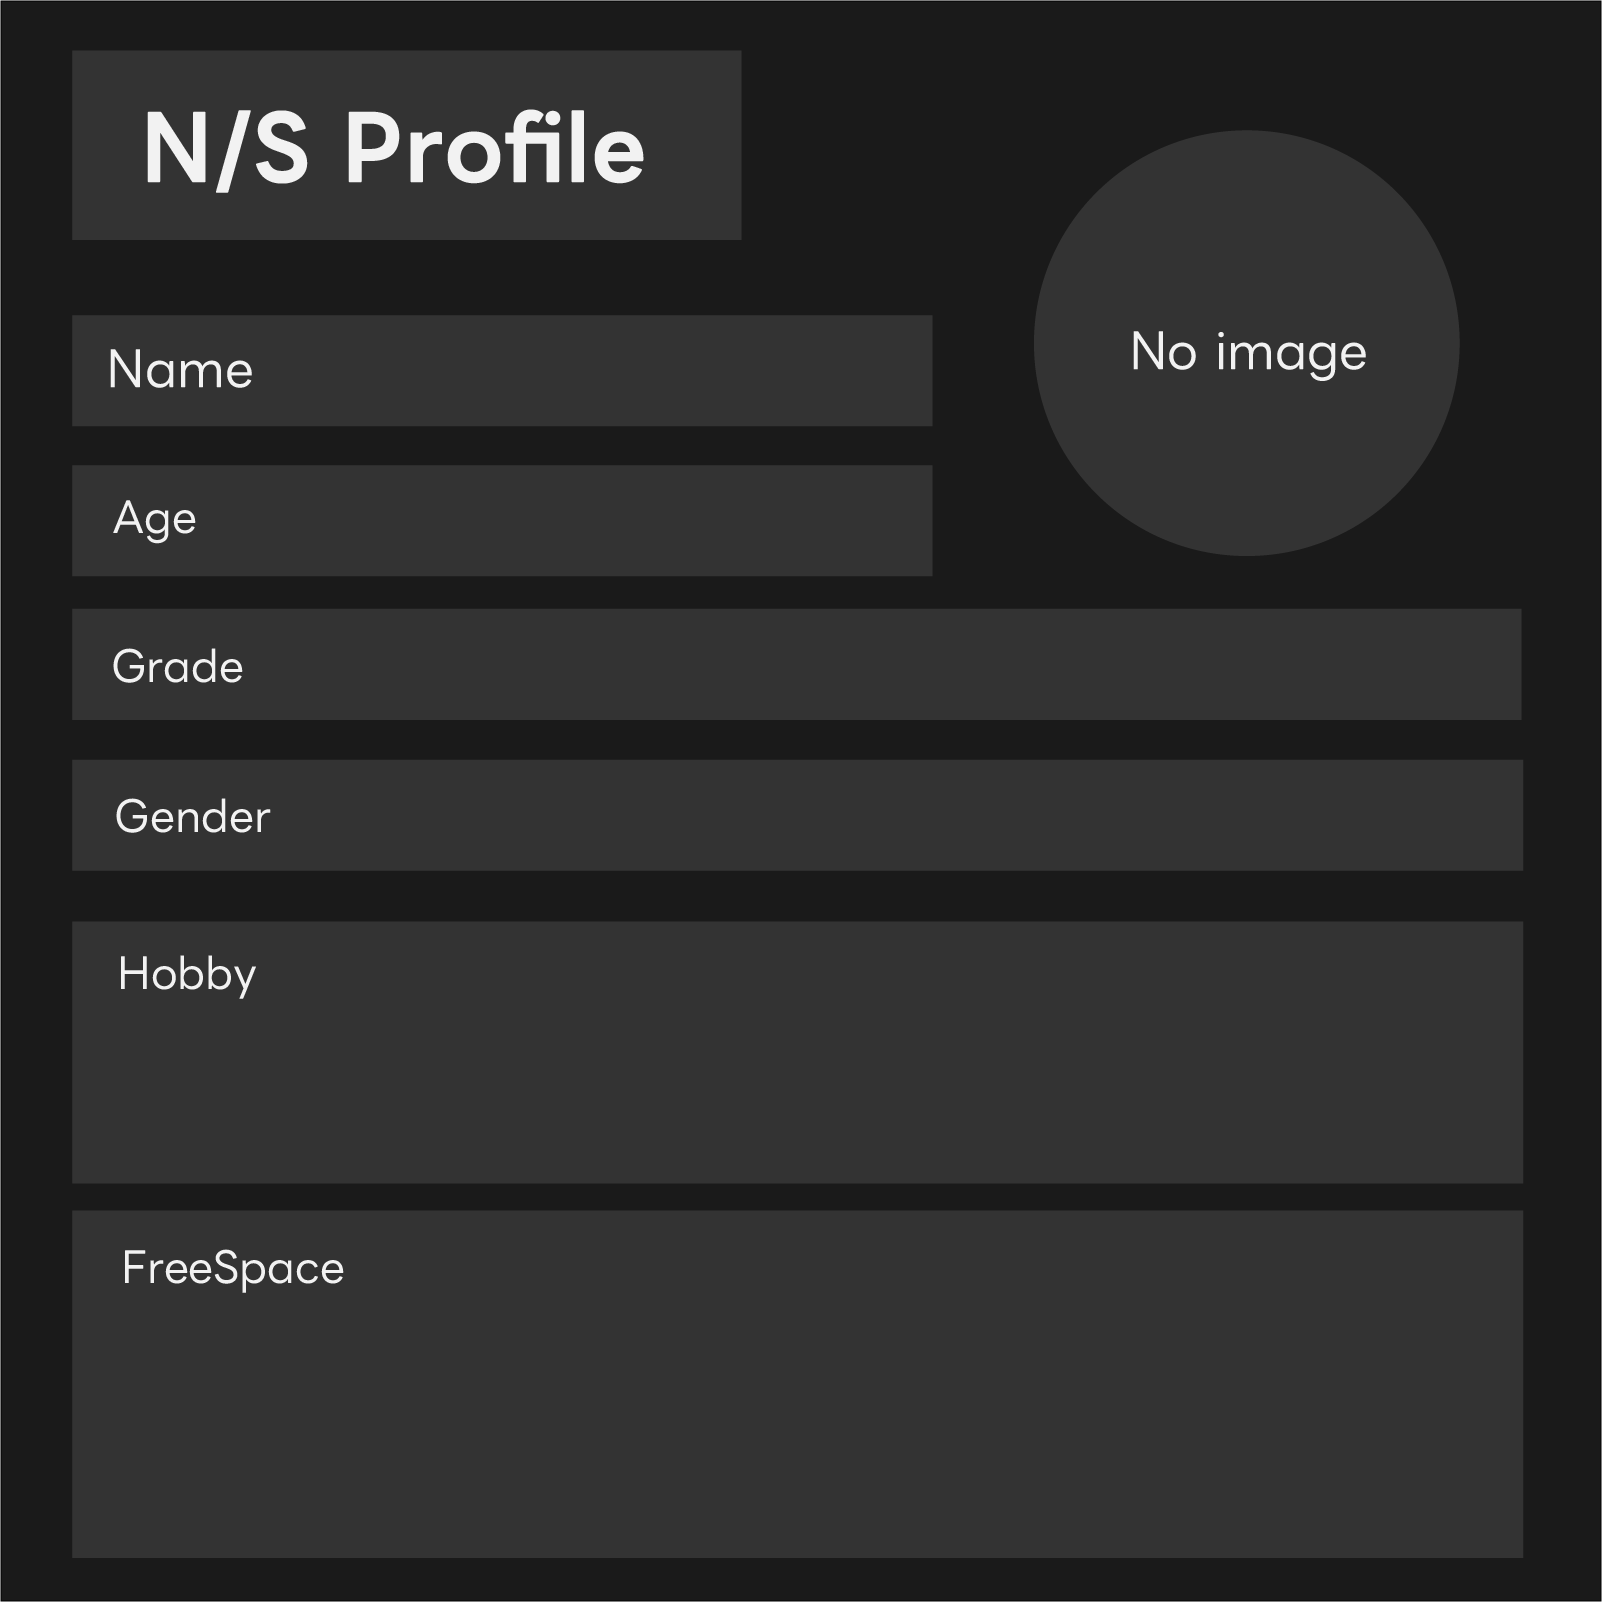
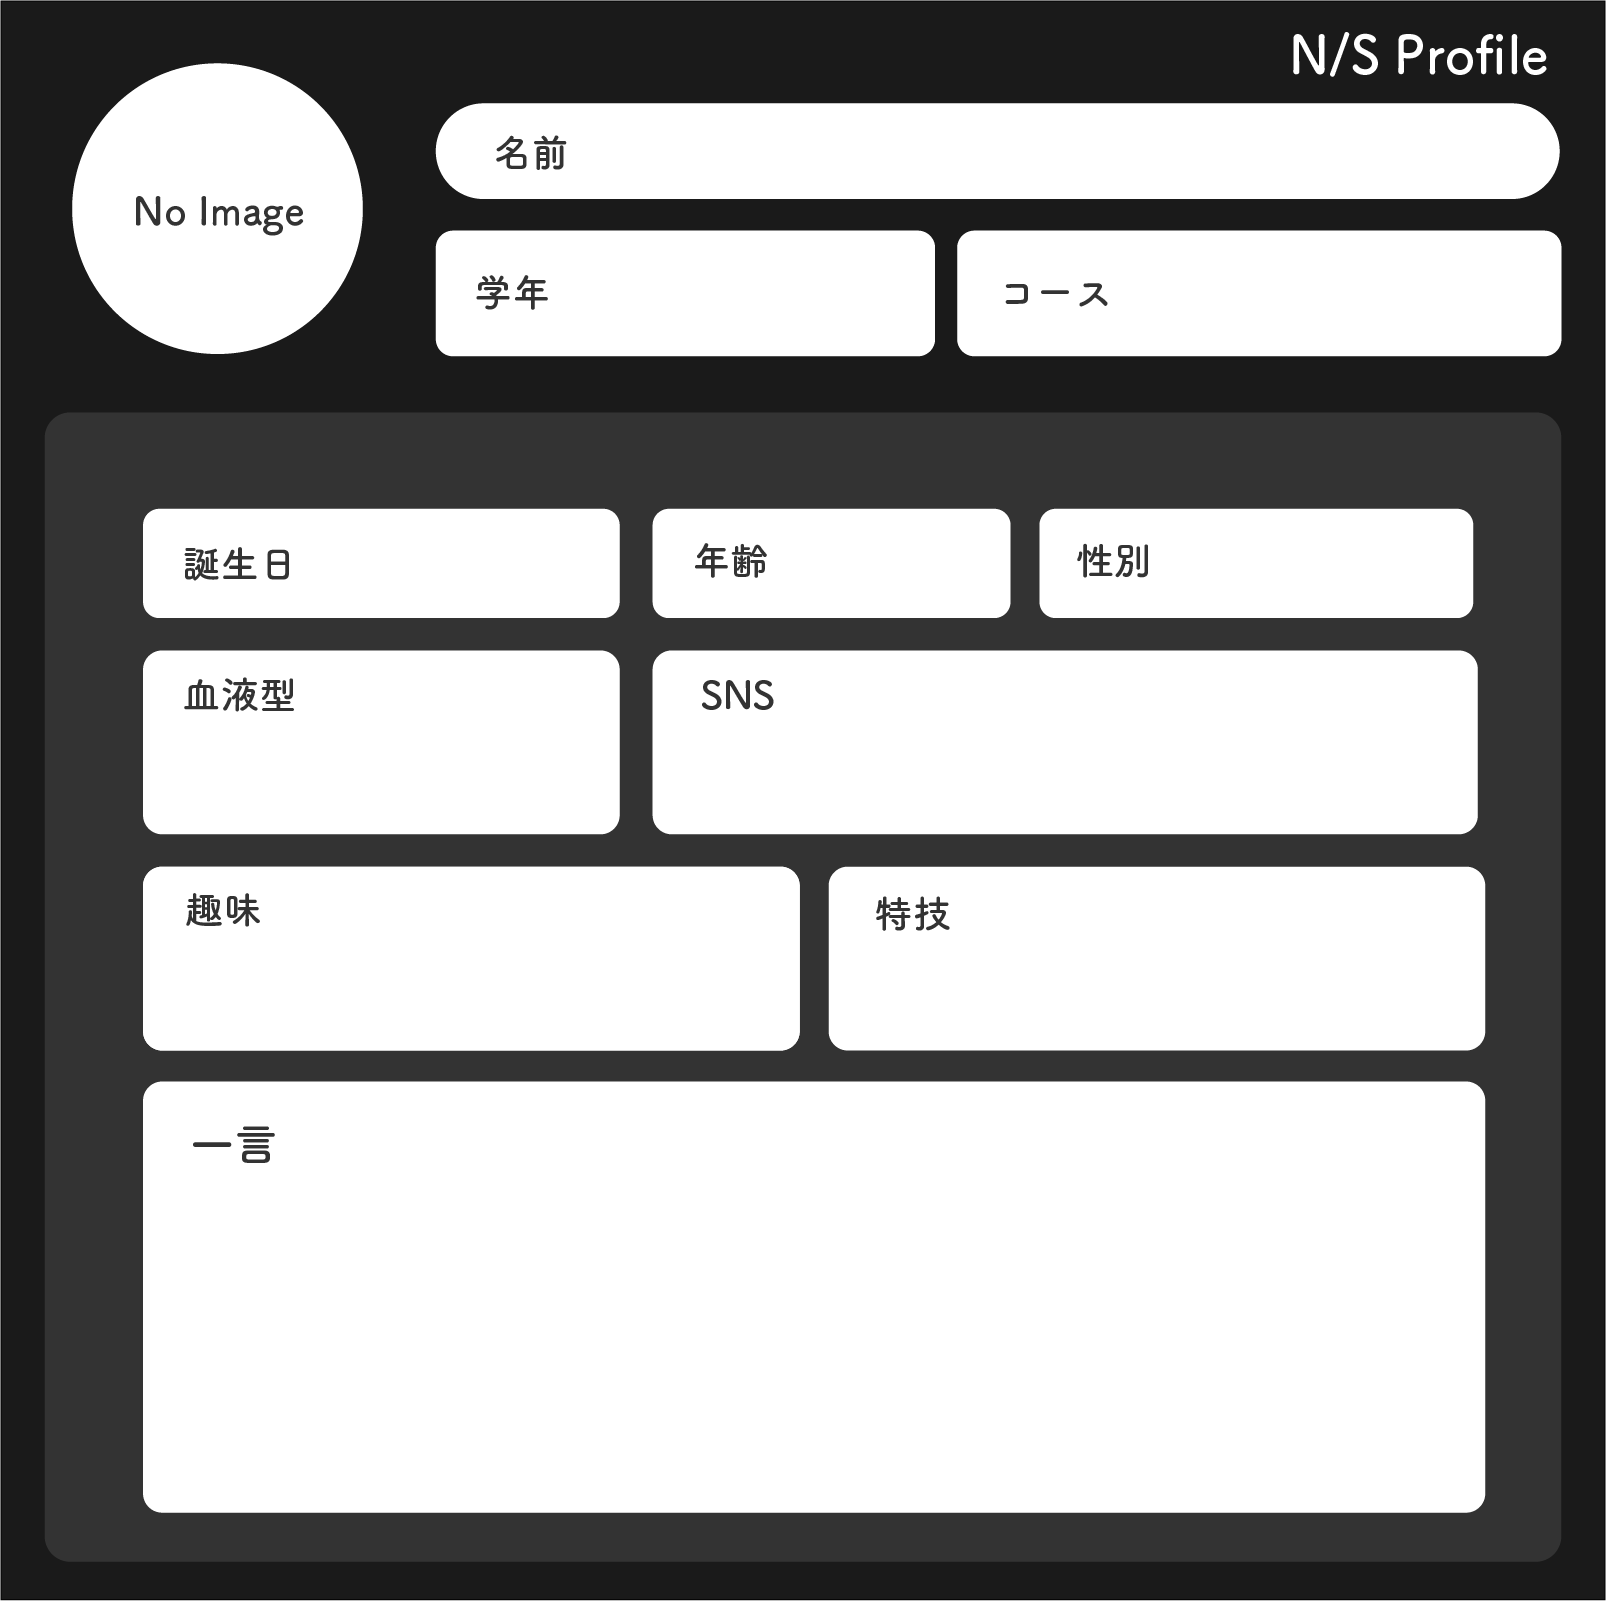
N/S Profileのβ完成

diff --git a/islands/profile-app.tsx b/islands/profile-app.tsx
@@ -3,12 +3,16 @@ import { JSX } from "preact";
 
 interface ProfileType {
     name: string,
-    age: string,
     grade: string,
+    course: string,
+    birthday: string,
+    age: string,
     gender: string,
+    broadtype: string,
     sns: string,
-    freespace: string,
     hobby: string,
+    special: string,
+    freespace: string,
     color: string,
     fontColor: string,
 }
@@ -16,12 +20,16 @@ interface ProfileType {
 export default function PROFILE() {
     const [profile, setProfile] = useState<ProfileType>({
         name: "",
-        age: "",
         grade: "",
+        course: "",
+        birthday: "",
+        age: "",
         gender: "",
+        broadtype: "",
         sns: "",
-        freespace: "",
         hobby: "",
+        special: "",
+        freespace: "",
         color: "",
         fontColor: "#C7B299",
     });
@@ -43,11 +51,11 @@ export default function PROFILE() {
         const content = (
             <div className="flex justify-center items-center">
                 <div className="bg-white p-4 rounded shadow-md">
-                    <img src={imageURL} alt="Generated Profile" className="w-60 h-60 mx-auto my-4" />
+                    <img src={imageURL} alt="Generated Profile" class="w-[40vh] h-[40vh] mx-auto my-4" />
                     <p>長押し or 右クリックで保存できます。</p>
                     <button
                         onClick={() => setIsModalOpen(false)}
-                        className="bg-blue-500 text-white py-2 px-4 rounded hover:bg-blue-600 transition duration-300"
+                        className="w-full bg-sky-500 text-white py-2 rounded-full hover:bg-sky-600 transition duration-300 font-bold"
                     >
                         閉じる
                     </button>
@@ -71,9 +79,9 @@ export default function PROFILE() {
                 img.onload = () => {
                     ctx.drawImage(img, 0, 0, canvas.width, canvas.height);
                     if (iconImage) {
-                        const iconSize = 420;
-                        const iconX = 1036;
-                        const iconY = 132;
+                        const iconSize = 300;
+                        const iconX = 62;
+                        const iconY = 55;
                         ctx.save();
                         ctx.beginPath();
                         ctx.arc(iconX + iconSize / 2, iconY + iconSize / 2, iconSize / 2, 0, Math.PI * 2);
@@ -81,15 +89,21 @@ export default function PROFILE() {
                         ctx.drawImage(iconImage, iconX, iconY, iconSize, iconSize);
                         ctx.restore();
                     }
-                    ctx.font = "600 80px Yu Gothic";
+                    ctx.font = "600 60px Yu Gothic";
                     ctx.fillStyle = profile.fontColor;
-                    ctx.fillText(profile.name, 360, 400);
-                    ctx.fillText(profile.age, 280, 550);
-                    ctx.fillText(profile.grade, 360, 690);
-                    ctx.fillText(profile.gender, 360, 840);
-                    ctx.fillText(profile.sns, 1080, 800);
-                    ctx.fillText(profile.hobby, 160, 1080);
-                    ctx.fillText(profile.freespace, 160, 1400);
+                    ctx.fillText(profile.name, 600, 170);
+                    ctx.fillText(profile.grade, 600, 320);
+                    ctx.fillText(profile.course, 1150, 320);
+                    ctx.fillText(profile.birthday, 320, 585);
+                    ctx.fillText(profile.age, 780, 585);
+                    ctx.fillText(profile.gender, 1180, 585);
+                    ctx.fillText(profile.broadtype, 200, 780);
+                    ctx.font = "600 50px Yu Gothic";
+                    ctx.fillText(profile.sns, 700, 780);
+                    ctx.font = "600 40px Yu Gothic";
+                    ctx.fillText(profile.hobby, 200, 990);
+                    ctx.fillText(profile.special, 900, 990);
+                    ctx.fillText(profile.freespace, 200, 1220);
                     const dataURL = canvas.toDataURL();
                     setGeneratedImageUrl(dataURL);
                     openModal(dataURL);
@@ -100,31 +114,32 @@ export default function PROFILE() {
     };
 
     return (
-        <div className="flex items-center justify-center  min-h-screen m-4">
-            <canvas
-                ref={canvasRef}
-                className="border-2 border-black hidden"
-                width="1600" height="1600"
-            />
-            <div class="bg-white p-8 rounded shadow-md">
-                <h1 class="text-2xl font-semibold mb-4">N/S Profile</h1>
-                <div class="mb-4 flex justify-center">
+        <div class="flex items-center justify-center">
+            <div className="w-[80vh]  min-h-screen m-4">
+                <canvas
+                    ref={canvasRef}
+                    className="hidden"
+                    width="1600" height="1600"
+                />
+                <div class="bg-white px-20 py-10 rounded shadow-md">
+                    <div class="mb-4 flex justify-center">
 
-                </div>
-                <div class="w-full">
+                    </div>
                     <div class="mb-4">
-                        <label for="name" class="block text-sm font-medium text-gray-700 mb-1">名前</label>
+                        <label for="name" class="block text-sm font-medium text-gray-700 mb-1">🙅名前</label>
                         <input
                             type="text"
                             class="w-full border border-gray-300 px-3 py-2 rounded"
                             value={profile.name}
                             onChange={(e) => handleProfileChange("name", (e.target as HTMLInputElement).value)}
                         />
+                        <hr class="my-3"></hr>
                     </div>
+
                     <div class="mb-4">
-                        <label for="name" class="block text-sm font-medium text-gray-700 mb-1">アイコン</label>
+                        <label for="name" class="block text-sm font-medium text-gray-700 mb-1">🖼アイコン</label>
                         <input
-                            class="block w-full text-sm text-gray-500 file:mr-4 file:py-2 file:px-4 file:rounded-md file:border-0 file:text-sm file:font-semibold file:bg-blue-500 file:text-white     hover:file:bg-blue-600"
+                            class="block w-full text-sm text-gray-500 file:mr-4 file:py-2 file:px-4 file:rounded-full file:border-0 file:text-sm file:font-semibold file:bg-sky-500 file:text-white     hover:file:bg-sky-600"
                             type="file"
                             accept="image/*"
                             onChange={(e) => {
@@ -148,17 +163,9 @@ export default function PROFILE() {
                             />
                         )}
                     </div>
+                    <hr class="my-3"></hr>
                     <div class="mb-4">
-                        <label for="age" class="block text-sm font-medium text-gray-700 mb-1">年齢</label>
-                        <input
-                            type="text"
-                            class="w-full border border-gray-300 px-3 py-2 rounded"
-                            value={profile.age}
-                            onChange={(e) => handleProfileChange("age", (e.target as HTMLInputElement).value)}
-                        />
-                    </div>
-                    <div class="mb-4">
-                        <label for="grade" class="block text-sm font-medium text-gray-700 mb-1">学年</label>
+                        <label for="grade" class="block text-sm font-medium text-gray-700 mb-1">🎒学年</label>
                         <input
                             type="text"
                             class="w-full border border-gray-300 px-3 py-2 rounded"
@@ -167,7 +174,36 @@ export default function PROFILE() {
                         />
                     </div>
                     <div class="mb-4">
-                        <label for="gender" class="block text-sm font-medium text-gray-700 mb-1">性別</label>
+                        <label for="course" class="block text-sm font-medium text-gray-700 mb-1">🏫コース</label>
+                        <input
+                            type="text"
+                            class="w-full border border-gray-300 px-3 py-2 rounded"
+                            value={profile.course}
+                            onChange={(e) => handleProfileChange("course", (e.target as HTMLInputElement).value)}
+                        />
+                    </div>
+                    <hr class="my-3"></hr>
+                    <div class="mb-4">
+                        <label for="birthday" class="block text-sm font-medium text-gray-700 mb-1">🎂誕生日</label>
+                        <input
+                            type="text"
+                            class="w-full border border-gray-300 px-3 py-2 rounded"
+                            value={profile.birthday}
+                            onChange={(e) => handleProfileChange("birthday", (e.target as HTMLInputElement).value)}
+                        />
+                    </div>
+                    <div class="mb-4">
+                        <label for="age" class="block text-sm font-medium text-gray-700 mb-1">🔢年齢</label>
+                        <input
+                            type="text"
+                            class="w-full border border-gray-300 px-3 py-2 rounded"
+                            value={profile.age}
+                            onChange={(e) => handleProfileChange("age", (e.target as HTMLInputElement).value)}
+                        />
+                    </div>
+                    <hr class="my-3"></hr>
+                    <div class="mb-4">
+                        <label for="gender" class="block text-sm font-medium text-gray-700 mb-1">❓性別</label>
                         <input
                             type="text"
                             class="w-full border border-gray-300 px-3 py-2 rounded"
@@ -176,7 +212,27 @@ export default function PROFILE() {
                         />
                     </div>
                     <div class="mb-4">
-                        <label for="SNS" class="block text-sm font-medium text-gray-700 mb-1">趣味</label>
+                        <label for="broadtype" class="block text-sm font-medium text-gray-700 mb-1">🩸血液型</label>
+                        <input
+                            type="text"
+                            class="w-full border border-gray-300 px-3 py-2 rounded"
+                            value={profile.broadtype}
+                            onChange={(e) => handleProfileChange("broadtype", (e.target as HTMLInputElement).value)}
+                        />
+                    </div>
+                    <hr class="my-3"></hr>
+                    <div class="mb-4">
+                        <label for="sns" class="block text-sm font-medium text-gray-700 mb-1">🌎SNS</label>
+                        <input
+                            type="text"
+                            class="w-full border border-gray-300 px-3 py-2 rounded"
+                            value={profile.sns}
+                            onChange={(e) => handleProfileChange("sns", (e.target as HTMLInputElement).value)}
+                        />
+                    </div>
+                    <hr class="my-3"></hr>
+                    <div class="mb-4">
+                        <label for="hobby" class="block text-sm font-medium text-gray-700 mb-1">✨趣味</label>
                         <textarea
                             type="text"
                             class="w-full border border-gray-300 px-3 py-2 rounded"
@@ -185,7 +241,17 @@ export default function PROFILE() {
                         />
                     </div>
                     <div class="mb-4">
-                        <label for="SNS" class="block text-sm font-medium text-gray-700 mb-1">自由欄</label>
+                        <label for="SNS" class="block text-sm font-medium text-gray-700 mb-1">👍特技</label>
+                        <textarea
+                            type="text"
+                            class="w-full border border-gray-300 px-3 py-2 rounded"
+                            value={profile.special}
+                            onChange={(e) => handleProfileChange("special", (e.target as HTMLInputElement).value)}
+                        />
+                    </div>
+                    <hr class="my-3"></hr>
+                    <div class="mb-4">
+                        <label for="SNS" class="block text-sm font-medium text-gray-700 mb-1">📖自由欄</label>
                         <textarea
                             type="text"
                             class="w-full border border-gray-300 px-3 py-2 rounded"
@@ -193,11 +259,12 @@ export default function PROFILE() {
                             onChange={(e) => handleProfileChange("freespace", (e.target as HTMLInputElement).value)}
                         />
                     </div>
-                    <label for="gender" class="block text-sm font-medium text-gray-700 mb-1">背景</label>
+                    <hr class="my-3"></hr>
+                    <label for="gender" class="block text-sm font-medium text-gray-700 mb-1">🎨背景</label>
                     <select
                         value={backgroundImage}
                         onChange={(e) => setBackgroundImage((e.target as HTMLSelectElement).value)}
-                        class="data-te-select-init border-2 border-gray-700 w-full h-10 mb-3"
+                        class="data-te-select-init border border-gray-300 w-full h-10 mb-3 rounded-md"
                     >
                         <option value="">背景を選択</option>
                         <option value="apps/profile/image/moka.png">シンプル-モカ</option>
@@ -208,11 +275,11 @@ export default function PROFILE() {
                         <option value="apps/profile/image/black.png">シンプル-ブラック</option>
                         <option value="apps/profile/image/dark.png">シンプル-ダーク</option>
                     </select>
-                    <label for="gender" class="block text-sm font-medium text-gray-700 mb-1">フォントカラー</label>
+                    <label for="gender" class="block text-sm font-medium text-gray-700 mb-1">🎨フォントカラー</label>
                     <select
                         value={profile.fontColor}
                         onChange={(e) => handleProfileChange("fontColor", (e.target as HTMLSelectElement).value)}
-                        class="data-te-select-init border-2 border-gray-700 w-full h-10 mb-3"
+                        class="data-te-select-init  border border-gray-300 w-full h-10 mb-3 rounded-md"
                     >
                         <option value="#C7B299">モカ</option>
                         <option value="#1B1464">ダークブルー</option>
@@ -220,11 +287,10 @@ export default function PROFILE() {
                         <option value="#808080">グレー</option>
                         <option value="#FBB03B">オレンジ</option>
                         <option value="#000000">ブラック</option>
-                        <option value="#FFFFFF">ホワイト</option>
                     </select>
                     <button
                         onClick={handleGenerateImage}
-                        class="w-full bg-blue-500 text-white py-2 rounded hover:bg-blue-600 transition duration-300"
+                        class="w-full bg-sky-500 text-white py-2 rounded-full hover:bg-sky-600 transition duration-300 font-bold"
                     >
                         画像を生成
                     </button>
